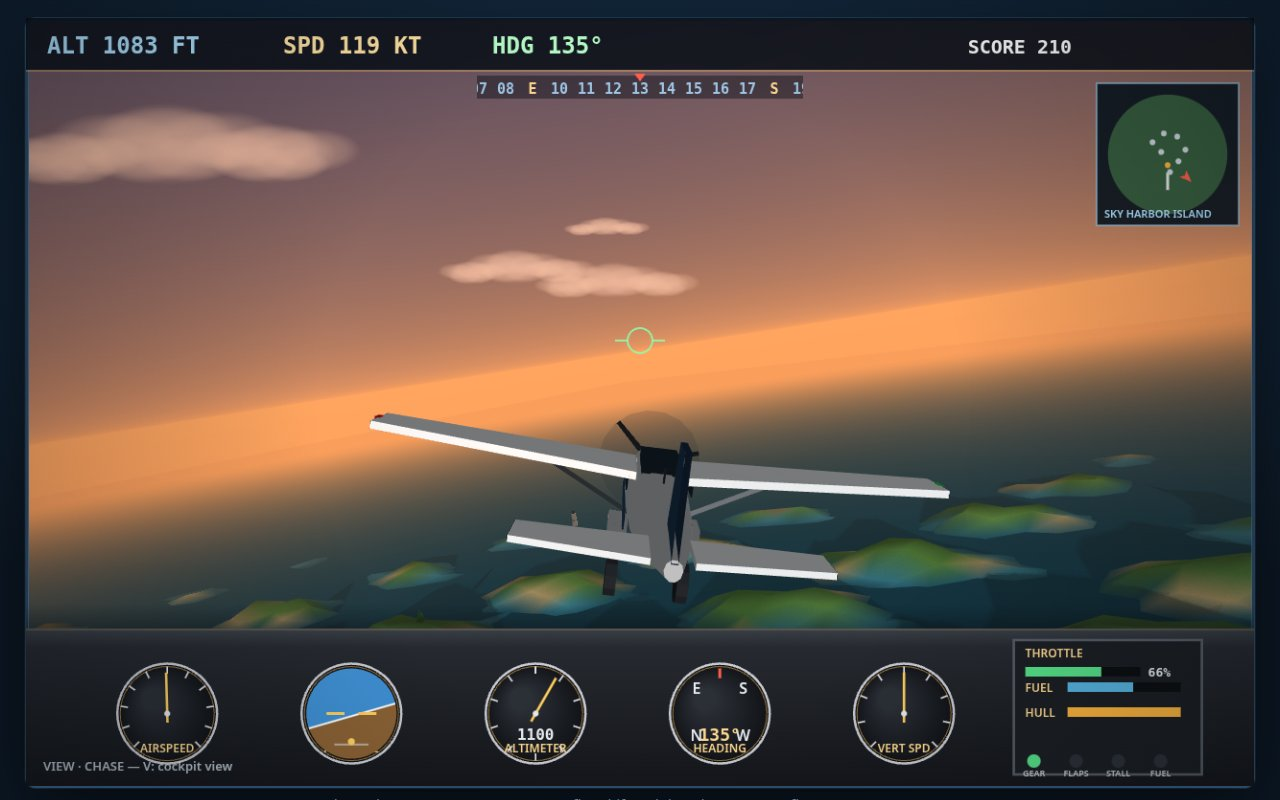
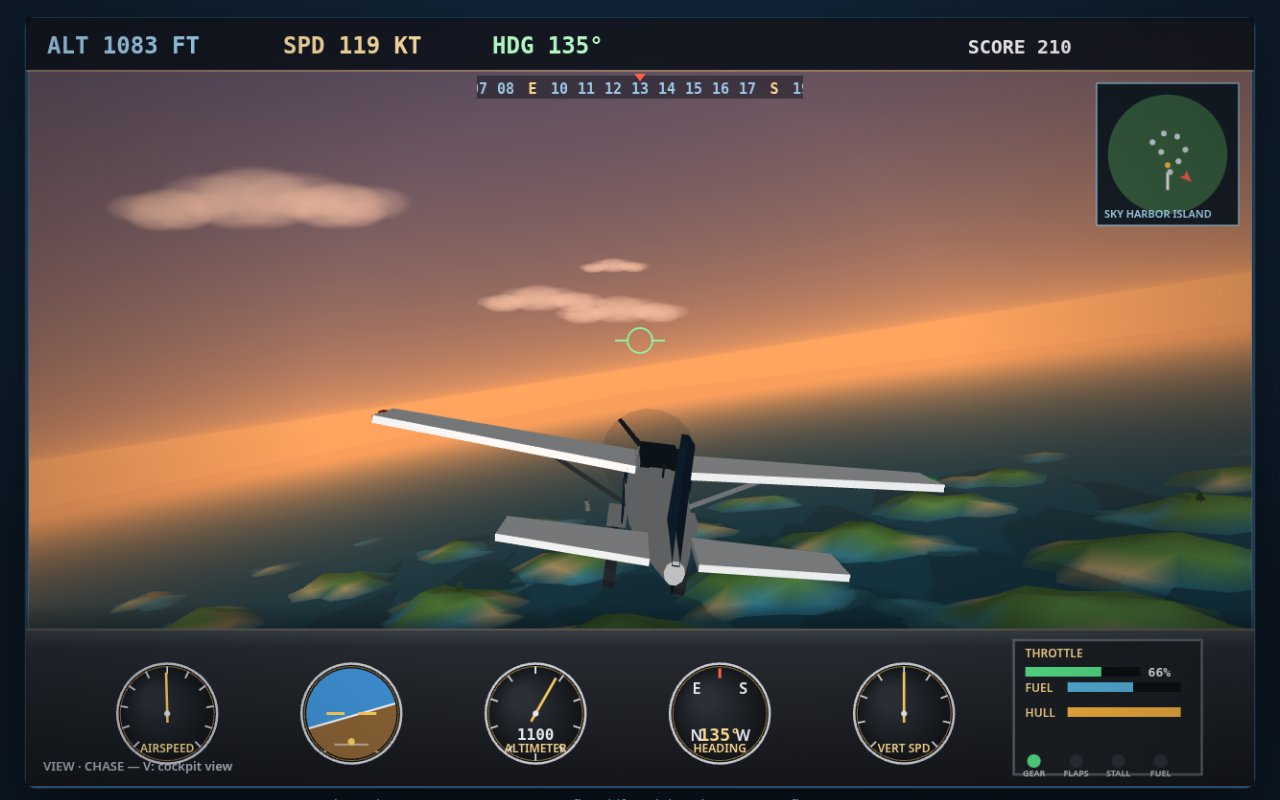
v7: chase camera rework (spring follow, turn lead-in, partial bank) + sportier tune

diff --git a/game/src/physics.js b/game/src/physics.js
@@ -47,6 +47,11 @@ export function stepPlane(p, input, dt, groundAt) {
   if (input.throttleUp) p.throttle = clamp(p.throttle + 0.55 * t, 0, 1);
   if (input.throttleDown) p.throttle = clamp(p.throttle - 0.55 * t, 0, 1);
 
+  // stick shaping: a soft centre for precision, full authority at the stops
+  const curve = (v) => Math.sign(v) * Math.pow(Math.abs(v), 1.35);
+  const stickRoll = curve(clamp(input.roll, -1, 1));
+  const stickPitch = curve(clamp(input.pitch, -1, 1));
+
   // --- lateral-directional dynamics, after JSBSim's coefficient build-up ---
   // State: sideslip beta (kept in p.slip), roll rate, yaw rate, bank. The
   // aileron commands roll RATE, not bank angle: centre the stick and the
@@ -68,9 +73,9 @@ export function stepPlane(p, input, dt, groundAt) {
   const s2 = vRef * vRef;     // stiffness / control derivatives ~ v^2
   const Yb = -0.14 * s1;      // side-force damping
   const Lb = -7.5 * s2;       // dihedral effect: roll due to sideslip
-  const Lp = -8.7 * s1;       // roll damping (roll subsidence)
+  const Lp = -10.5 * s1;      // roll damping (roll subsidence)
   const Lr = 2.2 * s1;        // roll due to yaw rate
-  const Lda = 13.0 * s2;      // aileron power, per unit stick
+  const Lda = 19.0 * s2;      // aileron power, per unit stick (sporty airframe: ~100 deg/s)
   const Nb = 7.3 * s2;        // weathercock stability (the fin)
   const Np = -0.36 * s1;      // yaw due to roll rate
   const Nr = -1.9 * s1;       // yaw damping (the fin again)
@@ -87,9 +92,9 @@ export function stepPlane(p, input, dt, groundAt) {
     const rr = p.yawRate;
     const sinR = Math.sin(p.roll);
     const betaDot = Yb * beta + (G / Math.max(p.speed, 18)) * sinR * (1 + 0.35 * sinR * sinR) - rr;
-    let pDot = Lb * beta + Lp * pr + Lr * rr + Lda * input.roll + torque;
+    let pDot = Lb * beta + Lp * pr + Lr * rr + Lda * stickRoll + torque;
     if (p.stall) pDot += Math.sin(p.t * 1.9) * 2.0; // a wing drops at the break
-    const rDot = Nb * beta + Np * pr + Nr * rr + Nda * input.roll + pFactor;
+    const rDot = Nb * beta + Np * pr + Nr * rr + Nda * stickRoll + pFactor;
     p.slip = clamp(beta + betaDot * h, -0.5, 0.5);
     p.rollRate = pr + pDot * h;
     p.yawRate = rr + rDot * h;
@@ -112,8 +117,8 @@ export function stepPlane(p, input, dt, groundAt) {
   p.flapTransient *= Math.exp(-1.7 * t);
 
   // the elevator's bite scales with dynamic pressure too: mushy when slow
-  const effP = clamp(0.55 + 0.45 * s2, 0.55, 1.3);
-  p.attVel += ((input.pitch * 0.8 * effP) - p.attVel) * Math.min(1, 5.2 * t);
+  const effP = clamp(0.65 + 0.35 * s2, 0.65, 1.3);
+  p.attVel += ((stickPitch * 0.8 * effP) - p.attVel) * Math.min(1, 6.2 * t);
   p.att += p.attVel * t;
   // longitudinal stability: left alone the nose settles back toward the path
   p.attVel += (p.pitch - p.att) * 0.55 * t;
@@ -147,8 +152,8 @@ export function stepPlane(p, input, dt, groundAt) {
   // which settles within a few percent of the coordinated g·tan(bank)/v ---
 
   // --- energy: thrust against drag, gravity taxing every climb ---
-  const thrust = p.throttle * 33 * (p.fuel > 0 ? 1 : 0);
-  const parasite = 2.1 + 0.0068 * p.speed * p.speed;
+  const thrust = p.throttle * 34 * (p.fuel > 0 ? 1 : 0);
+  const parasite = 2.1 + 0.0075 * p.speed * p.speed;
   const induced = 3.1 * liftN * liftN * (42 / Math.max(p.speed, 24));
   const gearDrag = p.gearDown ? 1.5 : 0;
   const flapDrag = p.flaps ? 1.15 : 0;

diff --git a/game/src/main.js b/game/src/main.js
@@ -52,21 +52,31 @@ function startMission(id) {
   audio.start();
 }
 
-// chase-camera orientation with a little spring in it: the camera settles
-// onto a new heading a beat after the aeroplane does, so turns feel weighted
-const camSm = { heading: 0, pitch: 0, roll: 0, ready: false };
+// chase-camera orientation on critically damped springs, with feelers
+// into the turn: the heading target LEADS the aeroplane by a slice of
+// its yaw rate, so the camera is already swinging as the turn develops
+// instead of chasing it; and the camera takes only ~55% of the bank, so
+// the horizon stays readable and the aeroplane stays centred in frame
+const camSm = { heading: 0, pitch: 0, roll: 0, hVel: 0, pVel: 0, rVel: 0, ready: false };
+function springAxis(cur, vel, target, omega, dt) {
+  const acc = omega * omega * (target - cur) - 2 * omega * vel;
+  vel += acc * dt;
+  cur += vel * dt;
+  return [cur, vel];
+}
 function smoothedPlane(dt) {
   if (!camSm.ready) {
-    camSm.heading = plane.heading; camSm.pitch = plane.pitch; camSm.roll = plane.roll;
+    camSm.heading = plane.heading; camSm.pitch = plane.pitch; camSm.roll = plane.roll * 0.55;
+    camSm.hVel = 0; camSm.pVel = 0; camSm.rVel = 0;
     camSm.ready = true;
   }
-  const k = 1 - Math.exp(-9.5 * dt);
-  let dh = plane.heading - camSm.heading;
+  const hTarget = plane.heading + (plane.yawRate || 0) * 0.22;
+  let dh = hTarget - camSm.heading;
   while (dh > Math.PI) dh -= Math.PI * 2;
   while (dh < -Math.PI) dh += Math.PI * 2;
-  camSm.heading += dh * k;
-  camSm.pitch += (plane.pitch - camSm.pitch) * k;
-  camSm.roll += (plane.roll - camSm.roll) * (1 - Math.exp(-11 * dt));
+  [camSm.heading, camSm.hVel] = springAxis(camSm.heading, camSm.hVel, camSm.heading + dh, 7.5, dt);
+  [camSm.pitch, camSm.pVel] = springAxis(camSm.pitch, camSm.pVel, plane.pitch, 8.5, dt);
+  [camSm.roll, camSm.rVel] = springAxis(camSm.roll, camSm.rVel, plane.roll * 0.55, 6.5, dt);
   return { ...plane, heading: camSm.heading, pitch: camSm.pitch, roll: camSm.roll };
 }
 

diff --git a/game/src/glworld.js b/game/src/glworld.js
@@ -755,26 +755,27 @@ export function createGLWorld(canvas, { trees, town, clouds }) {
       view = lookAt(eye, [eye[0] + f[0], eye[1] + f[1], eye[2] + f[2]], uP);
       fwd = f;
     } else {
-      eye = [plane.x - cf[0] * 30, plane.y - cf[1] * 30 + 7.5, plane.z - cf[2] * 30];
+      eye = [plane.x - cf[0] * 25, plane.y - cf[1] * 25 + 6.5, plane.z - cf[2] * 25];
       // a breath of engine vibration reaches the chase camera too
       eye[1] += Math.sin(t * 41.3) * 0.03 * (0.4 + plane.throttle * 0.6);
       // aim mostly where the aeroplane actually points, not where the
       // smoothed chase heading has got to — turns feel answered at once
       const aim = [
-        cf[0] * 0.35 + f[0] * 0.65,
-        cf[1] * 0.35 + f[1] * 0.65,
-        cf[2] * 0.35 + f[2] * 0.65,
+        cf[0] * 0.15 + f[0] * 0.85,
+        cf[1] * 0.15 + f[1] * 0.85,
+        cf[2] * 0.15 + f[2] * 0.85,
       ];
       const center = [plane.x + aim[0] * 40, plane.y + aim[1] * 40, plane.z + aim[2] * 40];
       let rx = -cf[2]; let rz = cf[0];
       const rl = Math.hypot(rx, rz) || 1; rx /= rl; rz /= rl;
-      const A = camPlane.roll * 0.55;
+      const A = camPlane.roll; // main.js already delivers the partial (55%) camera bank
       const up = [rx * Math.sin(A), Math.cos(A), rz * Math.sin(A)];
       view = lookAt(eye, center, up);
       fwd = cf;
     }
+    // the field of view WIDENS with speed — the classic speed sensation
     const fovScale = 1 + Math.max(0, Math.min(0.30, (plane.speed - 38) / 220));
-    const fovY = 2 * Math.atan(Math.tan(0.541) / fovScale);
+    const fovY = 2 * Math.atan(Math.tan(0.541) * fovScale);
     const vp = multiply(perspective(fovY, W / H, 0.5, 12000), view);
     lastVP = vp; lastCamPos = eye; lastFwd = fwd;
 
